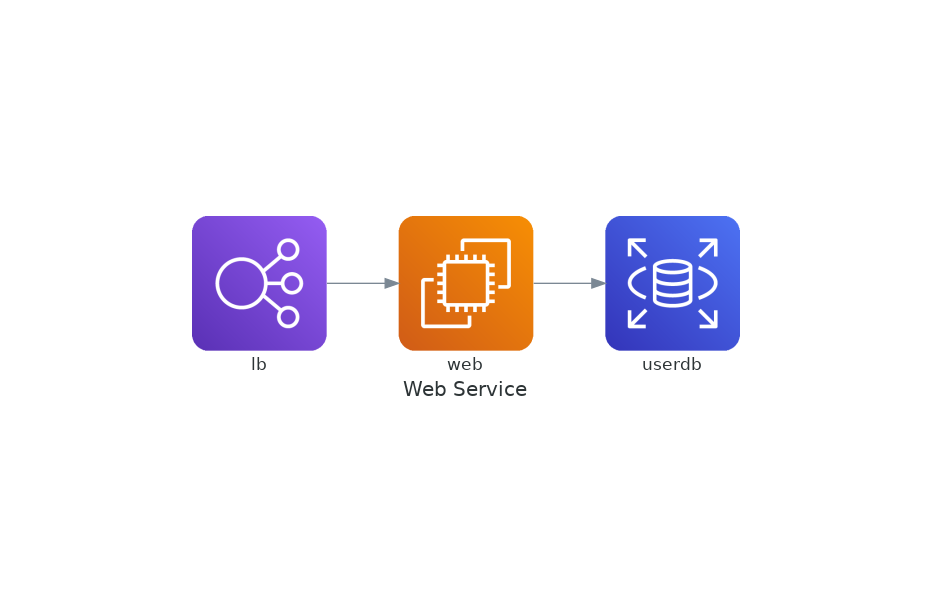
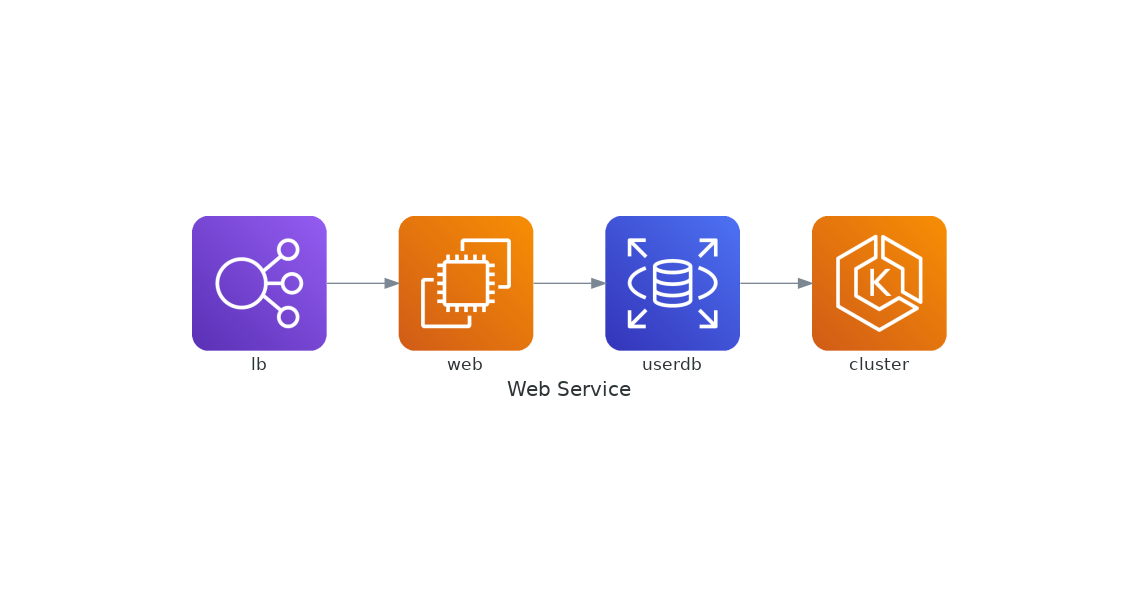
add first pass diagram

Changed region(s): [[0.1556, 0.36, 0.8401, 0.66], [0.2178, 0.6, 0.28, 0.63]]

diff --git a/eks.py b/eks.py
@@ -1,8 +1,46 @@
-from diagrams import Diagram
-from diagrams.aws.compute import EC2
-from diagrams.aws.database import RDS
+from diagrams import Cluster, Diagram
+from diagrams.aws.compute import ECS, EKS, Lambda, EC2AutoScaling, EC2Instance, EC2ContainerRegistryRegistry, ElasticContainerServiceContainer
+from diagrams.aws.database import RDSMysqlInstance
+from diagrams.aws.integration import SQS
+from diagrams.aws.storage import S3
 from diagrams.aws.network import ELB
-from diagrams.aws.compute import EKS
+from diagrams.onprem.client import User
 
-with Diagram("Web Service", show=False):
-    ELB("lb") >> EC2("web") >> RDS("userdb") >> EKS("cluster")
+
+with Diagram("AWS Single Region Multizone", show=False):
+    source = User("developer")
+    
+    lb = ELB("LoadBalancer")
+
+    with Cluster("EKS Cluster"):
+        with Cluster("Services Nodegroup"):
+            services = ECS('Proxy')
+            
+
+        with Cluster("Workspaces Nodegroups"):
+            with Cluster("headless and services"):
+                background = [
+                    EC2Instance("c6i.2xlarge"),
+                    ECS('ws-daemon'),
+                    ECS('image-builder')
+                ]
+            with Cluster("regular"):
+                runtime = [
+                    EC2Instance("m6i.4xlarge"),
+                    ECS("Dev Workspace")
+                ]
+
+
+    registry = EC2ContainerRegistryRegistry("Workspace Storage")
+    object_storage = S3("Runtime Storage")
+    database = RDSMysqlInstance("Gitpod DB Storage")
+
+    runtime << object_storage
+    services << database
+
+    source >> lb >> services \
+        >> background \
+        >> registry \
+        >> runtime
+
+    source >> lb >> services >> runtime

diff --git a/README.md b/README.md
@@ -30,3 +30,5 @@ kubectl kots install gitpod -n gitpod
 
 https://diagrams.mingrammer.com/docs/getting-started/installation
 
+
+![](aws_single_region_multizone.png)
